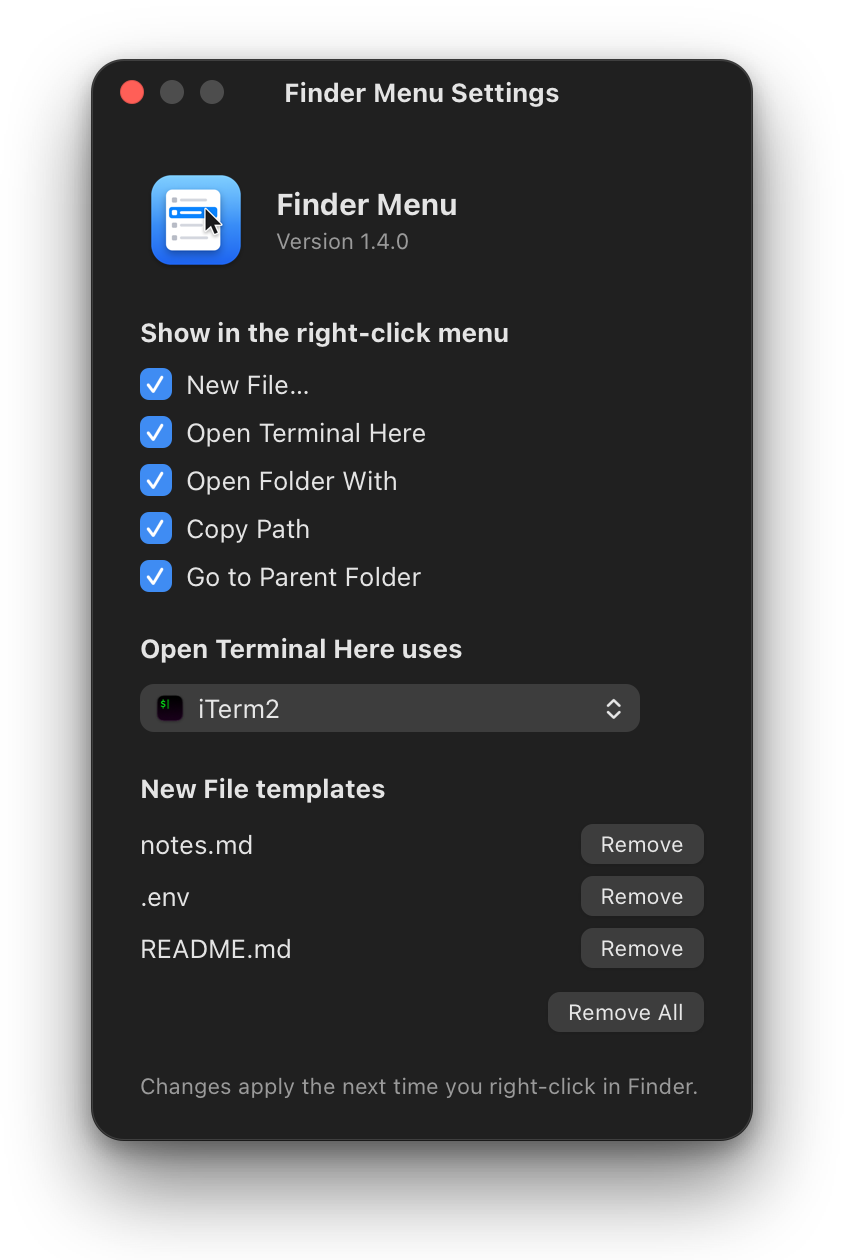
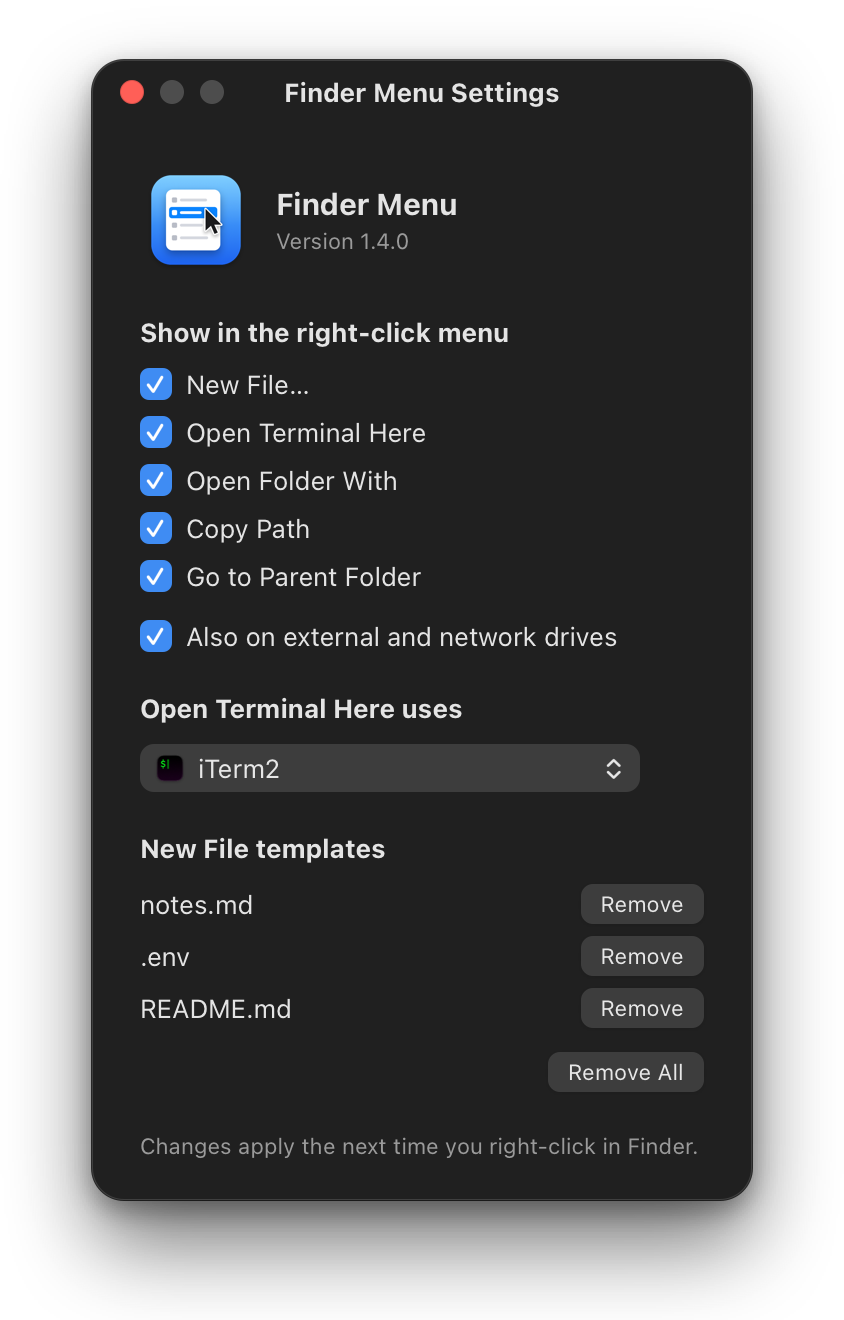
Show the menu on external drives and network shares
Finder asks a Finder Sync extension only about the folders it registers and the folders inside them, and it treats every drive besides the startup disk as its own root, not as a folder inside /. Registering just / left out SMB shares, USB and exFAT drives, disk images and FUSE mounts, so right-clicking there showed none of Finder Menu's items (#2).

The extension now registers every mounted drive and updates the list whenever one is mounted or ejected. Go to Parent Folder is hidden at the top of any drive, not just at /, since there's no folder above it.

Some macOS versions show the app's icon in Finder's sidebar for drives that a Finder extension works on. For anyone that bothers, settings have a new Also on external and network drives checkbox, on by default and translated like the rest; turning it off goes back to the startup disk only. The extension sets up its drives when it starts rather than on each right-click, so the settings window tells it about the change with a distributed notification.

The README covers drives and the new setting, and its settings mockup shows the checkbox.

diff --git a/Sources/FinderMenu/SettingsWindow.swift b/Sources/FinderMenu/SettingsWindow.swift
@@ -39,6 +39,9 @@ final class SettingsWindowController: NSWindowController {
             box.state = isHidden(item.id) ? .off : .on
             return box
         }
+        let drivesBox = NSButton(checkboxWithTitle: NSLocalizedString("Also on external and network drives", comment: ""),
+                                 target: self, action: #selector(toggleOtherDrives(_:)))
+        drivesBox.state = showsOnOtherDrives ? .on : .off
 
         terminalPopup.target = self
         terminalPopup.action = #selector(pickTerminal(_:))
@@ -60,13 +63,14 @@ final class SettingsWindowController: NSWindowController {
         let terminalLabel = Self.sectionLabel(NSLocalizedString("Open Terminal Here uses", comment: ""))
         let templatesLabel = Self.sectionLabel(NSLocalizedString("New File templates", comment: ""))
 
-        let stack = NSStackView(views: [header, itemsLabel] + checkboxes + [terminalLabel, terminalPopup, templatesLabel, templatesStack, note])
+        let stack = NSStackView(views: [header, itemsLabel] + checkboxes + [drivesBox, terminalLabel, terminalPopup, templatesLabel, templatesStack, note])
         stack.orientation = .vertical
         stack.alignment = .leading
         stack.spacing = 8
         stack.setCustomSpacing(20, after: header)
         stack.setCustomSpacing(10, after: itemsLabel)
-        stack.setCustomSpacing(20, after: checkboxes.last!)
+        stack.setCustomSpacing(14, after: checkboxes.last!)
+        stack.setCustomSpacing(20, after: drivesBox)
         stack.setCustomSpacing(10, after: terminalLabel)
         stack.setCustomSpacing(20, after: terminalPopup)
         stack.setCustomSpacing(10, after: templatesLabel)
@@ -179,6 +183,12 @@ final class SettingsWindowController: NSWindowController {
         let item = menuItems[sender.tag]
         setHidden(item.id, sender.state == .off)
         if item.id == "terminal" { terminalPopup.isEnabled = sender.state == .on }
+    }
+
+    // The extension picks its drives when it starts, not on every right-click, so tell it to pick again.
+    @objc private func toggleOtherDrives(_ sender: NSButton) {
+        showsOnOtherDrives = sender.state == .on
+        DistributedNotificationCenter.default().postNotificationName(otherDrivesChanged, object: nil, userInfo: nil, deliverImmediately: true)
     }
 
     // Automatic, the installed terminals Finder Menu knows, a previously chosen other app, then "Other App…".

diff --git a/Sources/FinderMenuExtension/FinderSync.swift b/Sources/FinderMenuExtension/FinderSync.swift
@@ -5,8 +5,28 @@ import FinderSync
 class FinderMenuSync: FIFinderSync {
     override init() {
         super.init()
-        // Show the menu in every folder on the Mac.
-        FIFinderSyncController.default().directoryURLs = [URL(fileURLWithPath: "/")]
+        watchDrives()
+        // Drives come and go while Finder runs, and the settings window can turn them off or on.
+        let workspace = NSWorkspace.shared.notificationCenter
+        workspace.addObserver(self, selector: #selector(watchDrives(_:)), name: NSWorkspace.didMountNotification, object: nil)
+        workspace.addObserver(self, selector: #selector(watchDrives(_:)), name: NSWorkspace.didUnmountNotification, object: nil)
+        DistributedNotificationCenter.default().addObserver(self, selector: #selector(watchDrives(_:)), name: otherDrivesChanged, object: nil)
+    }
+
+    // Finder shows the menu only in these folders and the folders inside them. "/" is just the startup
+    // disk: Finder treats every other drive (USB drives, disk images, network shares, FUSE mounts) as a
+    // separate root, so list each one too.
+    @objc private func watchDrives(_ notification: Notification? = nil) {
+        var roots = [URL(fileURLWithPath: "/")]
+        if showsOnOtherDrives {
+            roots += FileManager.default.mountedVolumeURLs(includingResourceValuesForKeys: nil, options: .skipHiddenVolumes) ?? []
+        }
+        FIFinderSyncController.default().directoryURLs = Set(roots)
+    }
+
+    // The top of a drive, where there's no parent folder to go to.
+    private func isDriveRoot(_ url: URL) -> Bool {
+        (FIFinderSyncController.default().directoryURLs ?? []).contains { $0.path == url.path }
     }
 
     override func menu(for menuKind: FIMenuKind) -> NSMenu? {
@@ -27,7 +47,7 @@ class FinderMenuSync: FIFinderSync {
             case "open-with": entry.submenu = Self.openWithMenu()
             case "copy-path": entry.action = #selector(copyPath(_:))
             case "parent-folder":
-                guard let dir = currentFolder, dir.path != "/" else { continue }
+                guard let dir = currentFolder, !isDriveRoot(dir) else { continue }
                 entry.action = #selector(goUp(_:))
             default: continue
             }

diff --git a/Sources/Shared/Settings.swift b/Sources/Shared/Settings.swift
@@ -27,3 +27,14 @@ var chosenTerminal: String? {
     get { settings.string(forKey: "Terminal") }
     set { if let newValue { settings.set(newValue, forKey: "Terminal") } else { settings.removeObject(forKey: "Terminal") } }
 }
+
+// Whether the menu also appears on drives other than the startup disk: external drives, disk images,
+// network shares. On unless turned off in settings.
+var showsOnOtherDrives: Bool {
+    get { !settings.bool(forKey: "HideOnOtherDrives") }
+    set { if newValue { settings.removeObject(forKey: "HideOnOtherDrives") } else { settings.set(true, forKey: "HideOnOtherDrives") } }
+}
+
+// The settings window posts this when showsOnOtherDrives changes. Finder only asks the extension about
+// drives it already covers, so the extension can't pick up a newly allowed drive on the next right-click.
+let otherDrivesChanged = Notification.Name("local.findermenu.other-drives-changed")

diff --git a/docs/mockups/mockups.html b/docs/mockups/mockups.html
@@ -367,6 +367,7 @@ const scenes = {
           gap(20), h('div', { cls: 'section' }, 'Show in the right-click menu'), gap(10),
           ['New File…', 'Open Terminal Here', 'Open Folder With', 'Copy Path', 'Go to Parent Folder']
             .flatMap((title, i) => [i ? gap(8) : null, checkbox(title)]),
+          gap(14), checkbox('Also on external and network drives'),
           gap(20), h('div', { cls: 'section' }, 'Open Terminal Here uses'), gap(10),
           h('div', { cls: 'popup' }, appIcon('com.googlecode.iterm2'), 'iTerm2',
             sym('chevron.up.chevron.down', 10, 'semibold', 'updown')),

diff --git a/README.md b/README.md
@@ -46,7 +46,7 @@
     <td align="center" valign="top" width="25%"><h3>📂</h3><b>Built-in</b><br>Five actions in Finder's own right-click menu.<br><br></td>
     <td align="center" valign="top" width="25%"><h3>🧰</h3><b>Your tools</b><br>Terminals, VS Code, Cursor, JetBrains, Xcode…<br><br></td>
     <td align="center" valign="top" width="25%"><h3>🔒</h3><b>Private</b><br>No network code, no telemetry.<br><br></td>
-    <td align="center" valign="top" width="25%"><h3>🪶</h3><b>Tiny</b><br>About 850 lines of Swift, built on your Mac.<br><br></td>
+    <td align="center" valign="top" width="25%"><h3>🪶</h3><b>Tiny</b><br>About 900 lines of Swift, built on your Mac.<br><br></td>
   </tr>
 </table>
 
@@ -63,6 +63,8 @@ Right-click **empty space** in any folder, with nothing selected:
 | <picture><source media="(prefers-color-scheme: dark)" srcset="docs/icons/parent-folder-dark.png"><img src="docs/icons/parent-folder.png" width="20" height="20" alt=""></picture> | **Go&nbsp;to&nbsp;Parent&nbsp;Folder** | Moves the window up one level, even when Finder's Back button is greyed out (e.g. a window opened with `open .`). |
 
 Right-clicking a file or folder works too: **Copy Path** copies the selected items' paths, and **Open Terminal Here** and **Open Folder With** use the selected folder.
+
+The menu also appears on external drives, disk images and network shares (such as SMB), not just your Mac's own disk.
 
 ## New File templates
 
@@ -117,13 +119,14 @@ From source, run `git pull && ./install.sh` in the repo folder.
 Open **Finder Menu** from Spotlight or your Applications folder, or run `finder-menu settings`. The settings window lets you:
 
 - choose which items appear in the right-click menu
+- choose whether the menu also appears on external and network drives (it does by default)
 - pick the terminal for **Open Terminal Here**. Automatic uses the first one installed, in this order: iTerm2, Ghostty, Warp, WezTerm, kitty, Alacritty, Terminal. **Other App…** lets you pick any app.
 - remove [New File templates](#new-file-templates)
 
 <p align="center">
   <picture>
     <source media="(prefers-color-scheme: dark)" srcset="docs/images/settings-dark.png">
-    <img src="docs/images/settings-light.png" width="380" alt="Finder Menu settings window: a checkbox for each right-click menu item, a picker for the terminal Open Terminal Here uses, and the saved New File templates, each with a Remove button">
+    <img src="docs/images/settings-light.png" width="380" alt="Finder Menu settings window: a checkbox for each right-click menu item and one for external and network drives, a picker for the terminal Open Terminal Here uses, and the saved New File templates, each with a Remove button">
   </picture>
 </p>
 
@@ -160,10 +163,11 @@ From source:
 
 - **Menu items don't appear:** hold ⌥, right-click Finder in the Dock and choose **Relaunch**. Also check that **Finder Menu** is turned on under System Settings → General → Login Items & Extensions → Finder extensions.
 - **Asked for permission again after reinstalling:** expected. Every build is signed locally with a new signature, so macOS asks again.
+- **A drive shows the Finder Menu icon in Finder's sidebar:** some macOS versions give the drives a Finder extension works on that app's icon. It's only the icon. If it bothers you, untick **Also on external and network drives** in [settings](#settings), which also takes the menu off those drives.
 
 ## How it works
 
-- `Sources/FinderMenuExtension` is a [Finder Sync extension](https://developer.apple.com/documentation/findersync) that adds the menu items to every folder. Finder extensions must run sandboxed, so this part only reads the clicked folder and copies paths.
+- `Sources/FinderMenuExtension` is a [Finder Sync extension](https://developer.apple.com/documentation/findersync) that adds the menu items to every folder. Finder only asks it about the drives it lists, so it lists every mounted drive and updates the list when one is mounted or ejected. Finder extensions must run sandboxed, so this part only reads the clicked folder and copies paths.
 - `Sources/FinderMenu` is a small helper app that isn't sandboxed and has no Dock icon. The extension hands it actions through a `findermenu://` URL, and the helper ignores those URLs from anything else. It creates the files, opens the terminal and moves the Finder window, then quits.
 - `Sources/Shared/Settings.swift` holds the list of menu items and reads the settings; `Sources/FinderMenu/SettingsWindow.swift` is the settings window. The helper writes the settings, and the extension only reads them.
 - `Sources/Shared/Templates.swift` holds the New File templates (saved file names). The extension builds the New File submenu from them, and the helper looks up the chosen template by id, so the file name never travels in the URL.
@@ -178,8 +182,8 @@ From source:
 You build Finder Menu yourself from this source, so there's no downloaded app to trust. Everything below can be checked in the code:
 
 - **No network access.** There's no networking code, so nothing is sent anywhere: no telemetry, no analytics, no update checks.
-- **Small enough to read.** About 850 lines of Swift and 170 lines of shell scripts (`install.sh`, `uninstall.sh` and `scripts/`). Read them before you run them.
-- **Sandboxed Finder extension.** It can't read your files. It only gets the folder you right-click and the items you select, plus read-only access to Finder Menu's own settings (which items to show, plus any New File templates).
+- **Small enough to read.** About 900 lines of Swift and 170 lines of shell scripts (`install.sh`, `uninstall.sh` and `scripts/`). Read them before you run them.
+- **Sandboxed Finder extension.** It can't read your files. It only gets the folder you right-click, the items you select and the list of mounted drives, plus read-only access to Finder Menu's own settings (which items to show and where, plus any New File templates).
 - **The helper only acts when you pick a menu item.** It creates an empty file with the name you type or a template name you saved (never overwriting anything), opens a terminal or an app in a folder, or moves the Finder window up a level.
 - **Links from other apps are ignored.** The extension sends actions to the helper as `findermenu://` links. Other apps can send those links too, and so can a website after your browser asks you. Opening a folder they choose in a terminal or IDE could run code from it, so the helper checks the code signature of whatever sent each link and ignores any that didn't come from its own Finder extension. On top of that, it only acts on folders that exist, only opens apps from its built-in IDE list (or one you pick yourself), asks before a custom New File, and for templates only uses a file name you already saved (never taken from the URL).
 - **One permission.** Go to Parent Folder asks once to control Finder. Finder Menu doesn't ask for Full Disk Access, Accessibility or anything else.
